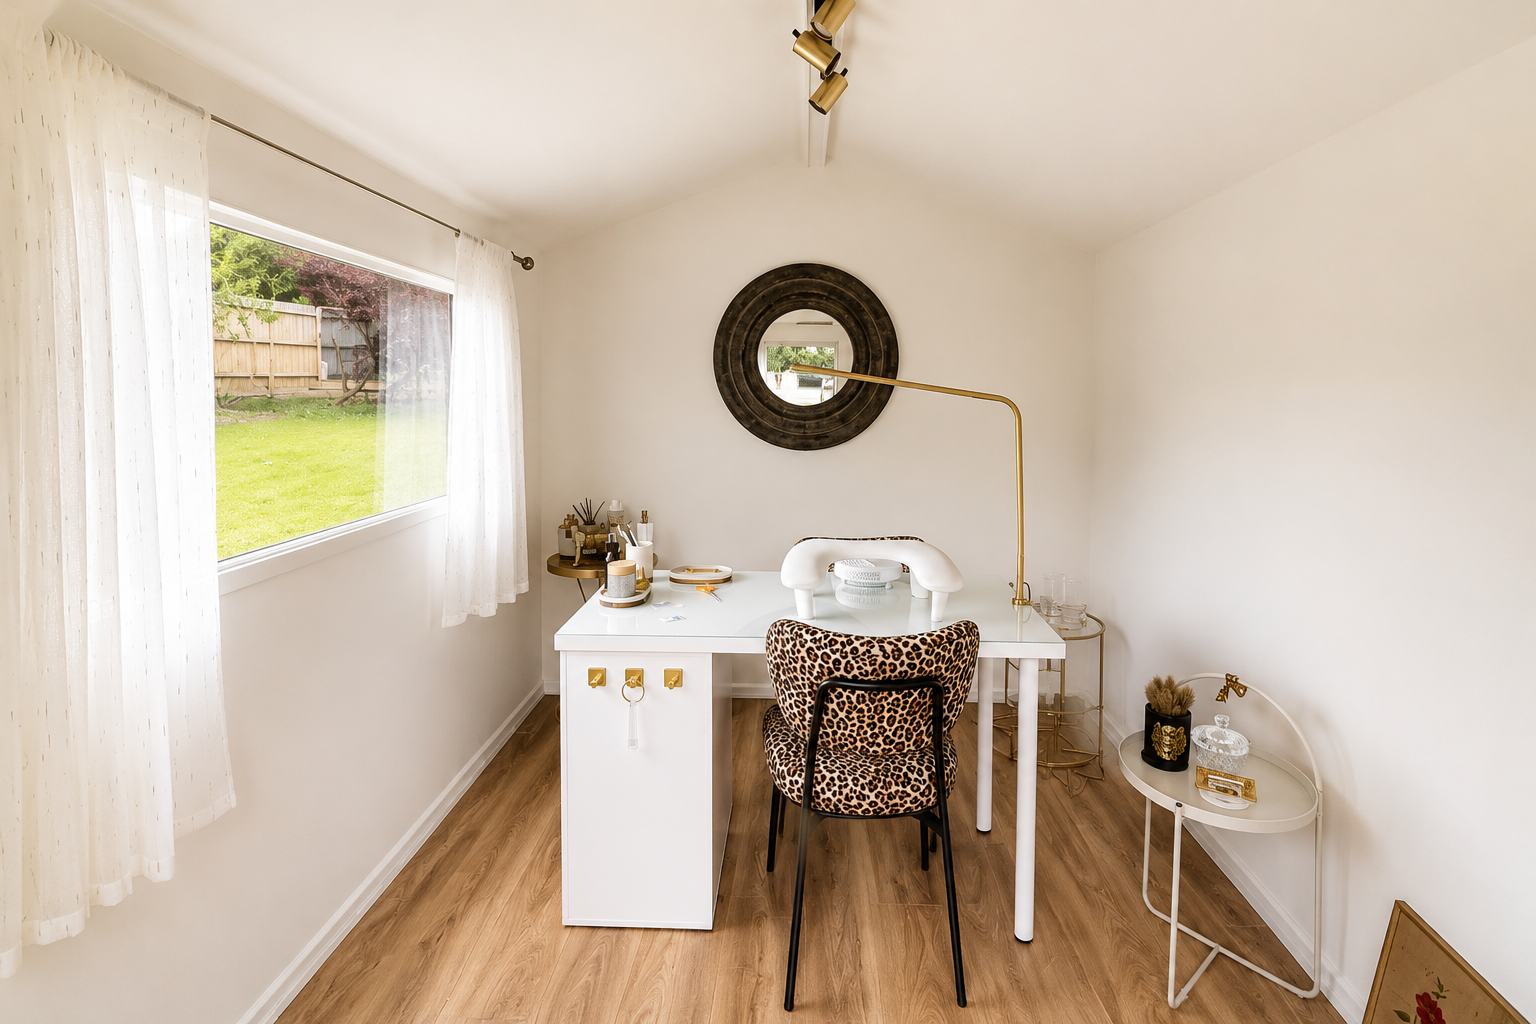
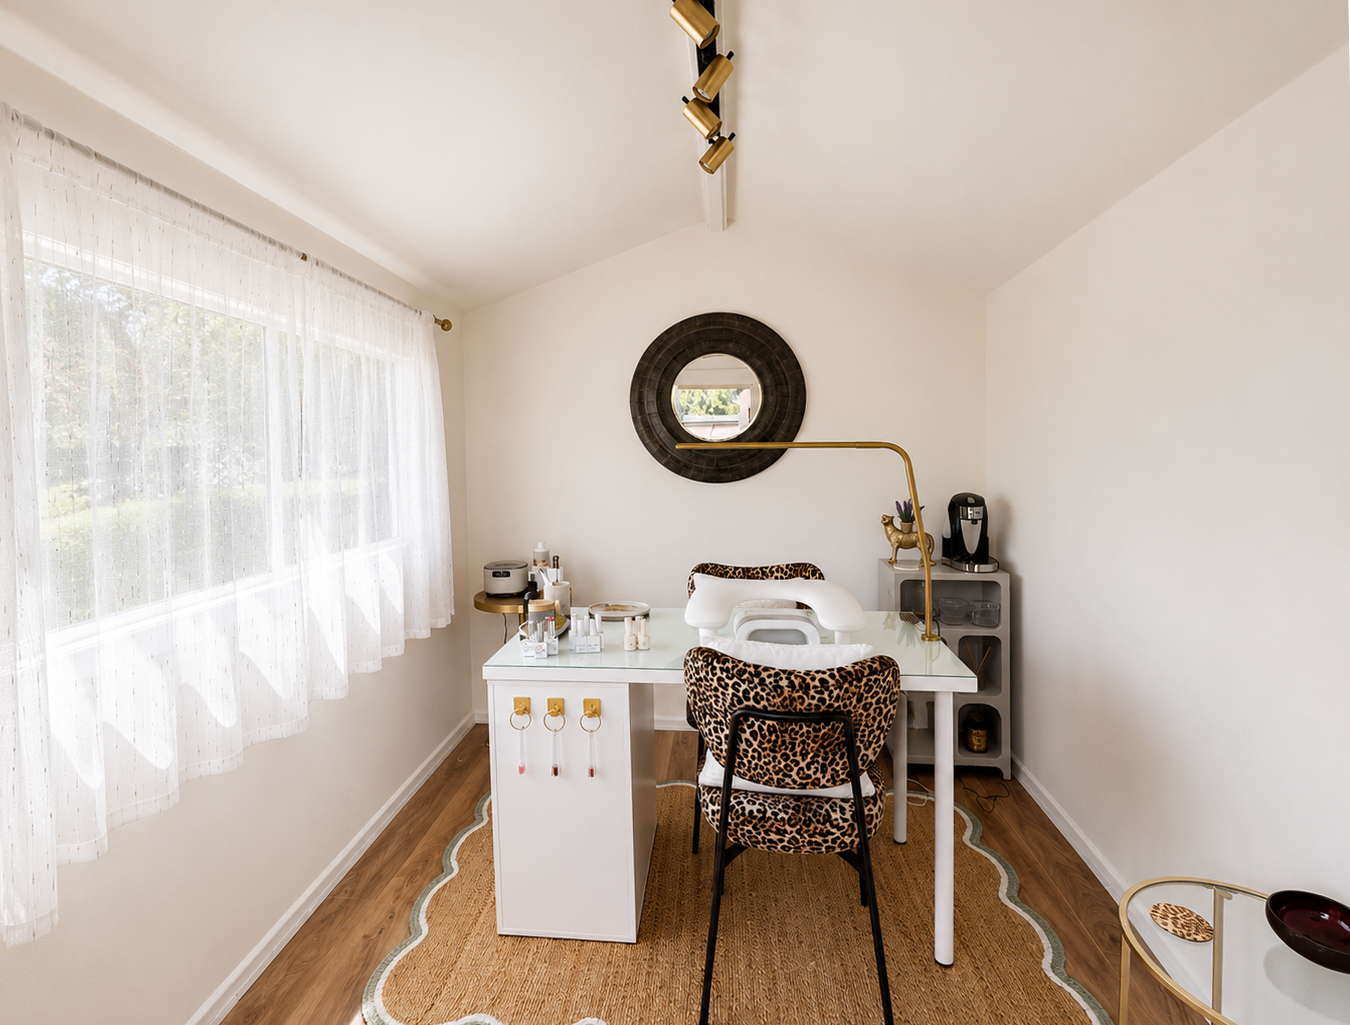
Updated gallery photos

diff --git a/app/page.tsx b/app/page.tsx
@@ -14,12 +14,10 @@ export default function Home() {
     <main className="bg-[#F7F4EF] text-[#222]">
       {/* HERO */}
       <section className="relative h-screen overflow-hidden">
-        <Image
+        <img
           src="/images/studio.png"
           alt="Holly's Hideaway Studio"
-          fill
-          priority
-          className="object-cover"
+          className="absolute inset-0 h-full w-full object-cover"
         />
 
         <div className="absolute inset-0 bg-black/10" />
@@ -185,43 +183,37 @@ export default function Home() {
       </FadeIn>
 
       {/* GALLERY */}
-      <FadeIn>
-        <section id="gallery" className="bg-[#F7F4EF] px-6 py-20">
-          <div className="mx-auto max-w-6xl">
-            <p className="mb-10 text-sm uppercase tracking-[0.3em] text-[#8A7F72]">
-              Gallery
-            </p>
+<FadeIn>
+  <section id="gallery" className="bg-[#F7F4EF] px-6 py-20">
+    <div className="mx-auto max-w-6xl">
+      <p className="mb-10 text-sm uppercase tracking-[0.3em] text-[#8A7F72]">
+        Gallery
+      </p>
 
-            <div className="grid gap-4 md:grid-cols-2">
-              <div className="overflow-hidden rounded-[2rem]">
-                <img
-                  src="/images/studio.png"
-                  alt="Holly's Hideaway Studio"
-                  className="h-full w-full object-cover transition duration-700 hover:scale-[1.02]"
-                />
-              </div>
-
-              <div className="grid gap-4">
-                <div className="overflow-hidden rounded-[2rem]">
-                  <img
-                    src="/images/nails.png"
-                    alt="Gel manicure"
-                    className="h-[320px] w-full object-cover transition duration-700 hover:scale-[1.02]"
-                  />
-                </div>
-
-                <div className="overflow-hidden rounded-[2rem]">
-                  <img
-                    src="/images/shed.jpg"
-                    alt="Holly's Hideaway Exterior"
-                    className="h-[320px] w-full object-cover transition duration-700 hover:scale-[1.02]"
-                  />
-                </div>
-              </div>
-            </div>
+      <div className="grid gap-4 md:grid-cols-3">
+        {[
+          { src: "/images/studio.png", alt: "Holly's Hideaway Studio" },
+          { src: "/images/nails.png", alt: "Gel manicure" },
+          { src: "/images/Products1.png", alt: "Luxury nail products" },
+          { src: "/images/Products2.png", alt: "Builder gel products" },
+          { src: "/images/Tools.png", alt: "Manicure tools" },
+          { src: "/images/shed.png", alt: "Holly's Hideaway Exterior" },
+        ].map((image) => (
+          <div
+            key={image.src}
+            className="aspect-[4/5] overflow-hidden rounded-[2rem]"
+          >
+            <img
+              src={image.src}
+              alt={image.alt}
+              className="h-full w-full object-cover transition duration-700 hover:scale-[1.02]"
+            />
           </div>
-        </section>
-      </FadeIn>
+        ))}
+      </div>
+    </div>
+  </section>
+</FadeIn>
 
       {/* ABOUT ME */}
       <FadeIn>